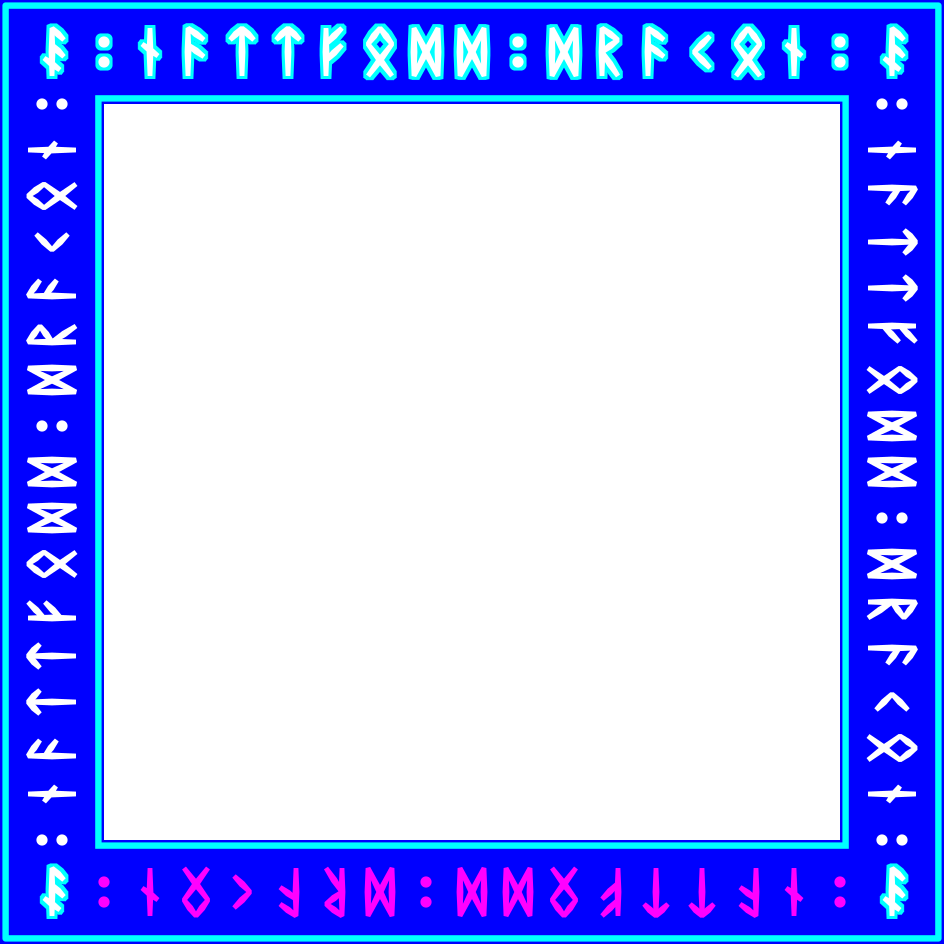
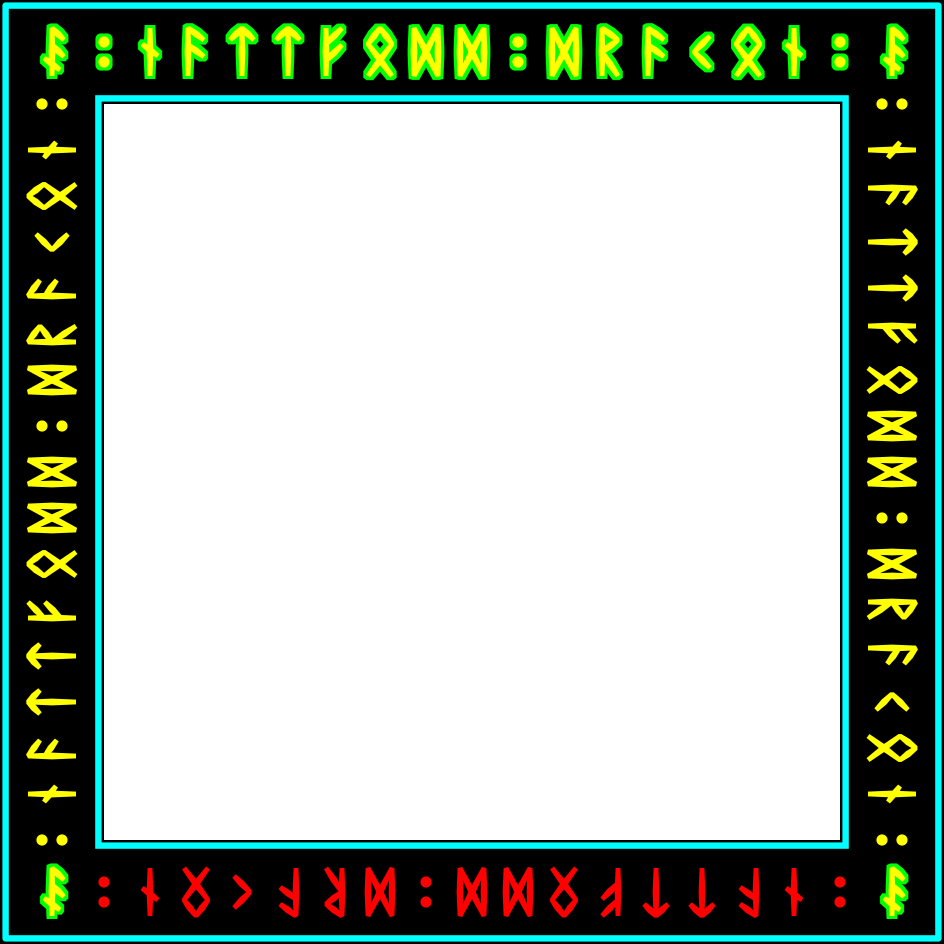
Live lighting: gold edges option (#goldedges) and a cursor light
- make_rune_border.py --masks also writes border-edges.png (the band's
  edge lines without the grooves round the runes); make_lit_maps.py packs
  it into the lit textures' B channel (the ring's lines are all edges).
- "Gold edges" (panel toggle, or the #goldedges flag for a quick mock):
  the edge lines become raised gold inlay like the runes, instead of
  carved grooves, on the border and the ring.
- "Cursor light" (on by default): the mouse is a soft spotlight pooling
  around the pointer, bright while it moves, fading after ~1.5 s still,
  so it can be raked across the metal. Up to 20 lights now.

diff --git a/js/lit.js b/js/lit.js
@@ -17,7 +17,7 @@
 // and a moon, darkens the scene, and makes the moon the key light.
 (() => {
   "use strict";
-  const MAX_LIGHTS = 16;
+  const MAX_LIGHTS = 20;
   const BORDER = { src: "images/lit/border.png", size: 944, slice: 104, tile: 736 };
   const RING = { src: "images/lit/ring.png" };
   const SKY_MASK = "images/lit/sky-mask.png";
@@ -50,8 +50,11 @@
     bump: 1.6,
     sparkle: 1.0,              // glints on the metal
     extreme: true,             // big, frequent, bright glints
+    goldEdges: false,          // the band's edge lines as raised gold inlay instead of grooves
+    cursor: true,              // the mouse is a small light near the frame
     tilt: false,               // WASD tilts the card (debugging)
   };
+  if (window.route && window.route.flags.has("goldedges")) settings.goldEdges = true;   // #goldedges
   const aim = { x: null, y: null };          // null = the card's centre
   const pinned = { x: null, y: null };       // null = brightest spot of the video
 
@@ -158,6 +161,7 @@
   uniform vec3 uEnv;               // what the metal reflects
   uniform float uSparkle;          // strength of the glints on the metal
   uniform vec4 uGlint;             // cell size (CSS px), chance threshold, sharpness, gain
+  uniform float uGoldEdges;        // 1: the band's edge lines (texture B) are raised gold
   uniform vec3 uView;              // direction to the viewer, in the card's own frame
   uniform float uTime;
 
@@ -183,6 +187,12 @@
     return 0.55 * noise(p) + 0.3 * noise(p * 2.3) + 0.15 * noise(p * 5.1);
   }
 
+  // Height: runes raised, grooves sunk, a little stone grain; with gold edges the edge
+  // lines (texture B) are raised like the runes instead.
+  float heightOf(vec4 t, float stoneGrain) {
+    return t.r - 0.7 * t.g + 1.3 * t.b * uGoldEdges + 0.12 * stoneGrain;
+  }
+
   void main() {
     vec2 uv, du, dv;
     if (uMode == 0) {
@@ -200,13 +210,13 @@
 
     // Height: runes raised, grooves sunk, a little grain; normals from neighbouring samples.
     float g0 = grain(screen);
-    float h0 = m.r - 0.7 * m.g + 0.12 * g0;
+    float h0 = heightOf(m, g0);
     vec4 mx1 = texture(uTex, uv + du), my1 = texture(uTex, uv + dv);
-    float hx = mx1.r - 0.7 * mx1.g + 0.12 * grain(screen + vec2(1, 0));
-    float hy = my1.r - 0.7 * my1.g + 0.12 * grain(screen + vec2(0, 1));
+    float hx = heightOf(mx1, grain(screen + vec2(1, 0)));
+    float hy = heightOf(my1, grain(screen + vec2(0, 1)));
     vec3 n = normalize(vec3(-(hx - h0) * uBump * uDpr, -(hy - h0) * uBump * uDpr, 1.0));
 
-    float metal = smoothstep(0.2, 0.8, m.r);
+    float metal = smoothstep(0.2, 0.8, max(m.r, m.b * uGoldEdges));
     float groove = m.g * (1.0 - metal);
     vec3 stone = mix(uStoneDark, uStoneLight, smoothstep(0.25, 0.75, g0));
     vec3 base = mix(stone, uStoneDark * 0.35, groove);
@@ -514,7 +524,25 @@
   // Lights
   // =====================================================================================
   const pointer = { x: innerWidth * 0.3, y: innerHeight * 0.2 };
-  addEventListener("pointermove", e => { pointer.x = e.clientX; pointer.y = e.clientY; }, { passive: true });
+  addEventListener("pointermove", e => {
+    pointer.x = e.clientX; pointer.y = e.clientY; pointer.moved = performance.now(); pointer.inside = true;
+  }, { passive: true });
+  document.documentElement.addEventListener("pointerleave", () => { pointer.inside = false; });
+
+  // The mouse as a small light: a soft pool around the pointer, bright while it moves and
+  // fading out after a moment of stillness, so it can be raked across the metal.
+  const cursorGlow = { level: 0, last: 0 };
+  function cursorLight(time) {
+    const dt = Math.min(0.1, Math.max(0, (time - cursorGlow.last) / 1000));
+    cursorGlow.last = time;
+    const active = settings.cursor && settings.light !== "pointer" && pointer.inside &&
+                   performance.now() - (pointer.moved || -1e9) < 1500;
+    cursorGlow.level += ((active ? 1 : 0) - cursorGlow.level) * (1 - Math.exp(-dt * (active ? 8 : 2)));
+    if (cursorGlow.level < 0.01) return null;
+    const k = 0.9 * cursorGlow.level * settings.strength;
+    return { pos: [pointer.x, pointer.y, 150], col: [1.1 * k, 1.05 * k, 0.95 * k], dir: [0, 0, -1],
+             cone: [Math.cos(55 * Math.PI / 180), Math.cos(15 * Math.PI / 180)] };
+  }
 
   const AMBIENT = [0.35, 0.36, 0.42];
   const ENV = [0.62, 0.64, 0.70];
@@ -833,8 +861,10 @@ Sun ${fmt(sunTimes.rise)}–${fmt(sunTimes.set)} · ${sunTimes.where}`;
     gl.uniform1f(U.uSparkle, settings.sparkle * intro.e * intro.e);
     // normal: ~2.5 px points, 1 in 6, fairly exact; extreme: bigger, 1 in 2, easy to trigger
     gl.uniform4fv(U.uGlint, settings.extreme ? [4.5, 0.5, 40, 30] : [2.5, 0.84, 160, 6]);
+    gl.uniform1f(U.uGoldEdges, settings.goldEdges ? 1 : 0);
     gl.uniform1f(U.uTime, time);
-    const ls = introLights(lights(time).slice(0, MAX_LIGHTS));
+    const cur = cursorLight(time);
+    const ls = introLights(lights(time).slice(0, MAX_LIGHTS - (cur ? 1 : 0))).concat(cur ? [cur] : []);
     gl.uniform3fv(U.uAmbient, scene.ambient.map(c => c * settings.fill));
     gl.uniform3fv(U.uEnv, scene.env);
     gl.uniform1i(U.uLightCount, ls.length);
@@ -907,7 +937,8 @@ Sun ${fmt(sunTimes.rise)}–${fmt(sunTimes.set)} · ${sunTimes.where}`;
       range("Fill", "fill", 0, 2.5, 0.05) +
       range("Depth", "bump", 0, 6, 0.1) +
       range("Sparkle", "sparkle", 0, 10, 0.05) +
-      `<div class="lit-toggles">${toggle("Extreme sparkle", "extreme")}${toggle("Guides", "guides")}${toggle("WASD tilt", "tilt")}</div>` +
+      `<div class="lit-toggles">${toggle("Extreme sparkle", "extreme")}${toggle("Gold edges", "goldEdges")}` +
+      `${toggle("Cursor light", "cursor")}${toggle("Guides", "guides")}${toggle("WASD tilt", "tilt")}</div>` +
       select("Ring metal", settings.ring.metal, Object.keys(METALS), "ring.metal") +
       select("Ring stone", settings.ring.stone, Object.keys(STONES), "ring.stone") +
       select("Border metal", settings.border.metal, Object.keys(METALS), "border.metal") +

diff --git a/scripts/make_lit_maps.py b/scripts/make_lit_maps.py
@@ -1,7 +1,7 @@
 """Pack the frame masks into one RGBA texture per frame, for the live-lit page (js/lit.js).
 
-    R = runes (raised metal)     G = carved lines (grooves)
-    B = stone (band area)        A = shape (everything drawn)
+    R = runes (raised metal)     G = carved lines (edges and grooves round runes)
+    B = the band's edge lines    A = shape (everything drawn)
 
 Same framing as the static images, so js/lit.js draws them where the static ring and
 border are. The stone grain is made in the shader (in screen space, so the border's
@@ -26,9 +26,9 @@ FRAMES = {  # output name: (mask prefix, size in px)
 
 
 def pack(prefix, size, out):
-    channels = [MASKS / f"{prefix}-{name}.png" for name in ("runes", "lines", "shape", "shape")]
-    # The stone mask (B) is the shape without the runes and lines; here simply the shape:
-    # the shader lets runes and lines take over where they are set.
+    # the ring has no grooves round its runes, so its lines mask is all edges
+    edges = "edges" if (MASKS / f"{prefix}-edges.png").exists() else "lines"
+    channels = [MASKS / f"{prefix}-{name}.png" for name in ("runes", "lines", edges, "shape")]
     subprocess.run(["magick", *map(str, channels), "-resize", f"{size}x{size}!",
                     "-channel", "RGBA", "-combine", "-define", "png:color-type=6", str(out)],
                    check=True)

diff --git a/scripts/make_rune_border.py b/scripts/make_rune_border.py
@@ -167,6 +167,7 @@ MODES = {  # mode: (stone, ink, gold, gold edge)
     "lines": ("#000", "#fff", "#000", "#000"),
     "runes": ("#000", "#000", "#fff", "#fff"),
     "grain": ("#fff", "none", "none", "none"),   # stone areas only, as raw noise
+    "edges": ("#000", "#fff", "none", "none"),   # the band's edge lines only (no rune grooves)
 }
 
 
@@ -315,11 +316,12 @@ MASK_SCALE = 4             # masks are S * 4 pixels square
 
 
 def write_masks():
-    """border-<shape|lines|runes|grain>.png in art/frame-masks/, for render_frame_blender.py."""
+    """border-<shape|lines|runes|grain|edges>.png in art/frame-masks/ (for render_frame_blender.py
+    and scripts/make_lit_maps.py)."""
     import subprocess
     import tempfile
     MASK_DIR.mkdir(parents=True, exist_ok=True)
-    for mode in ("shape", "lines", "runes", "grain"):
+    for mode in ("shape", "lines", "runes", "grain", "edges"):
         with tempfile.NamedTemporaryFile("w", suffix=".svg", delete=False, encoding="utf-8") as f:
             f.write(svg(mode, MASK_SCALE))
         out = MASK_DIR / f"border-{mode}.png"
